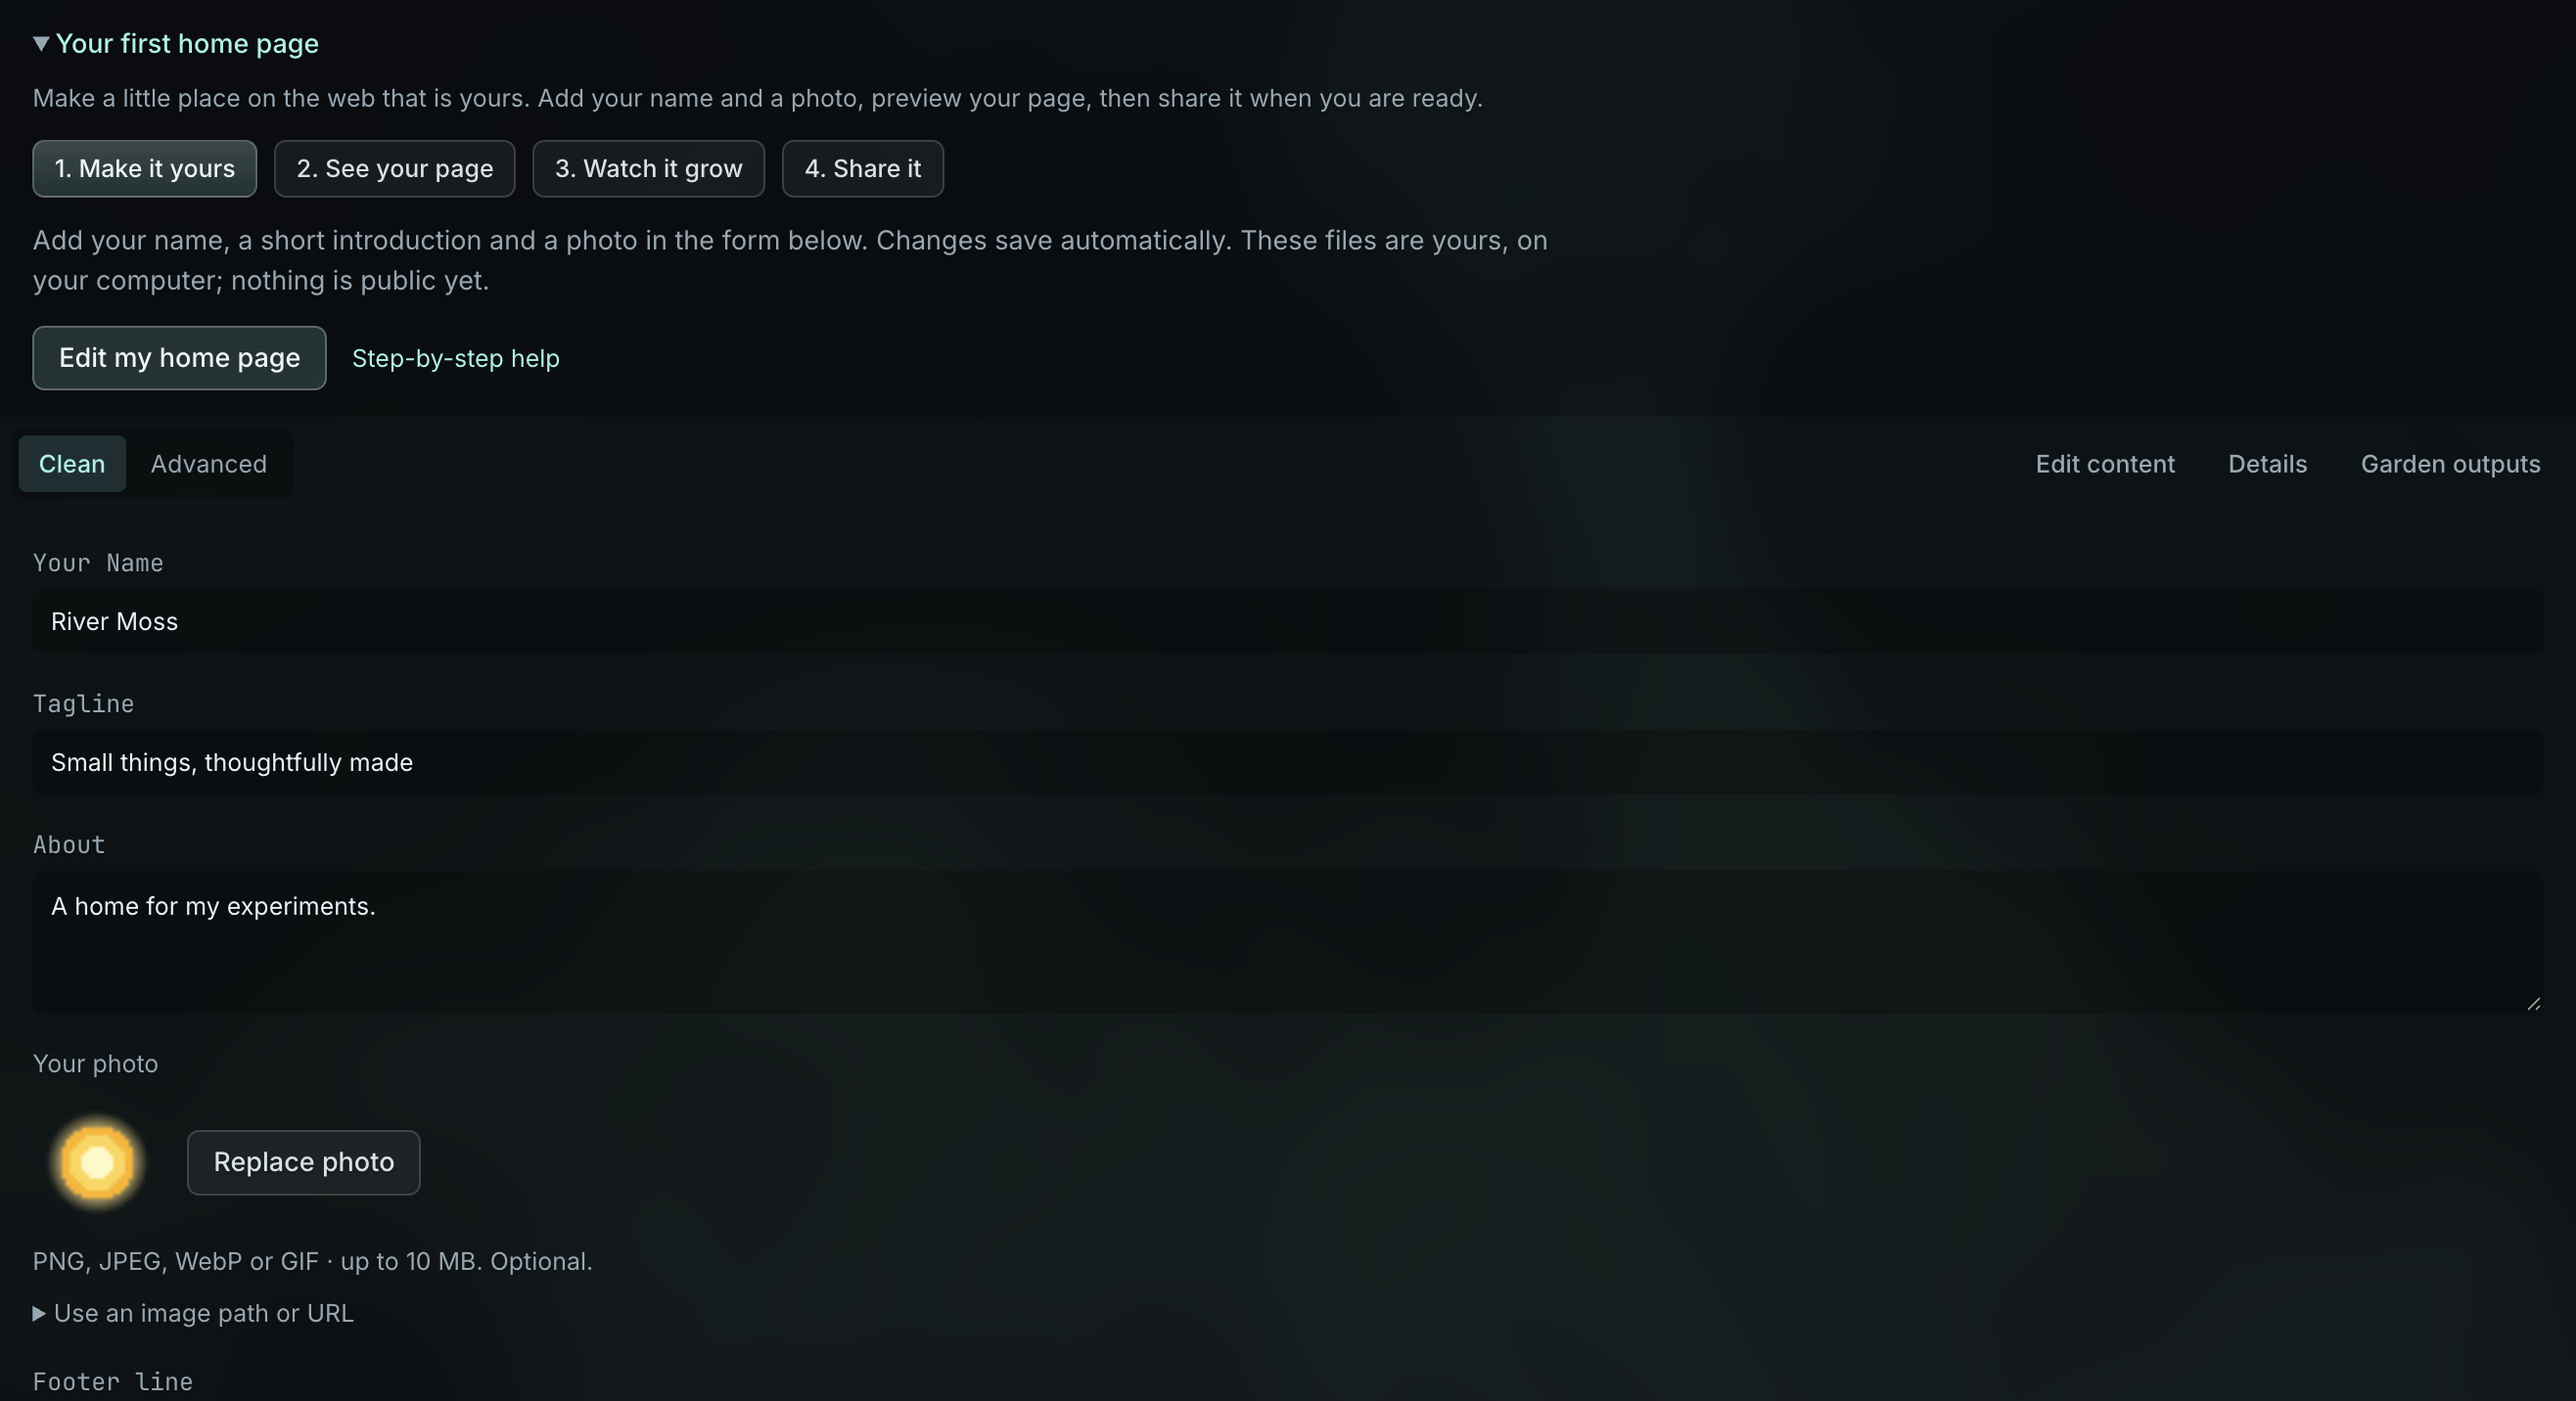
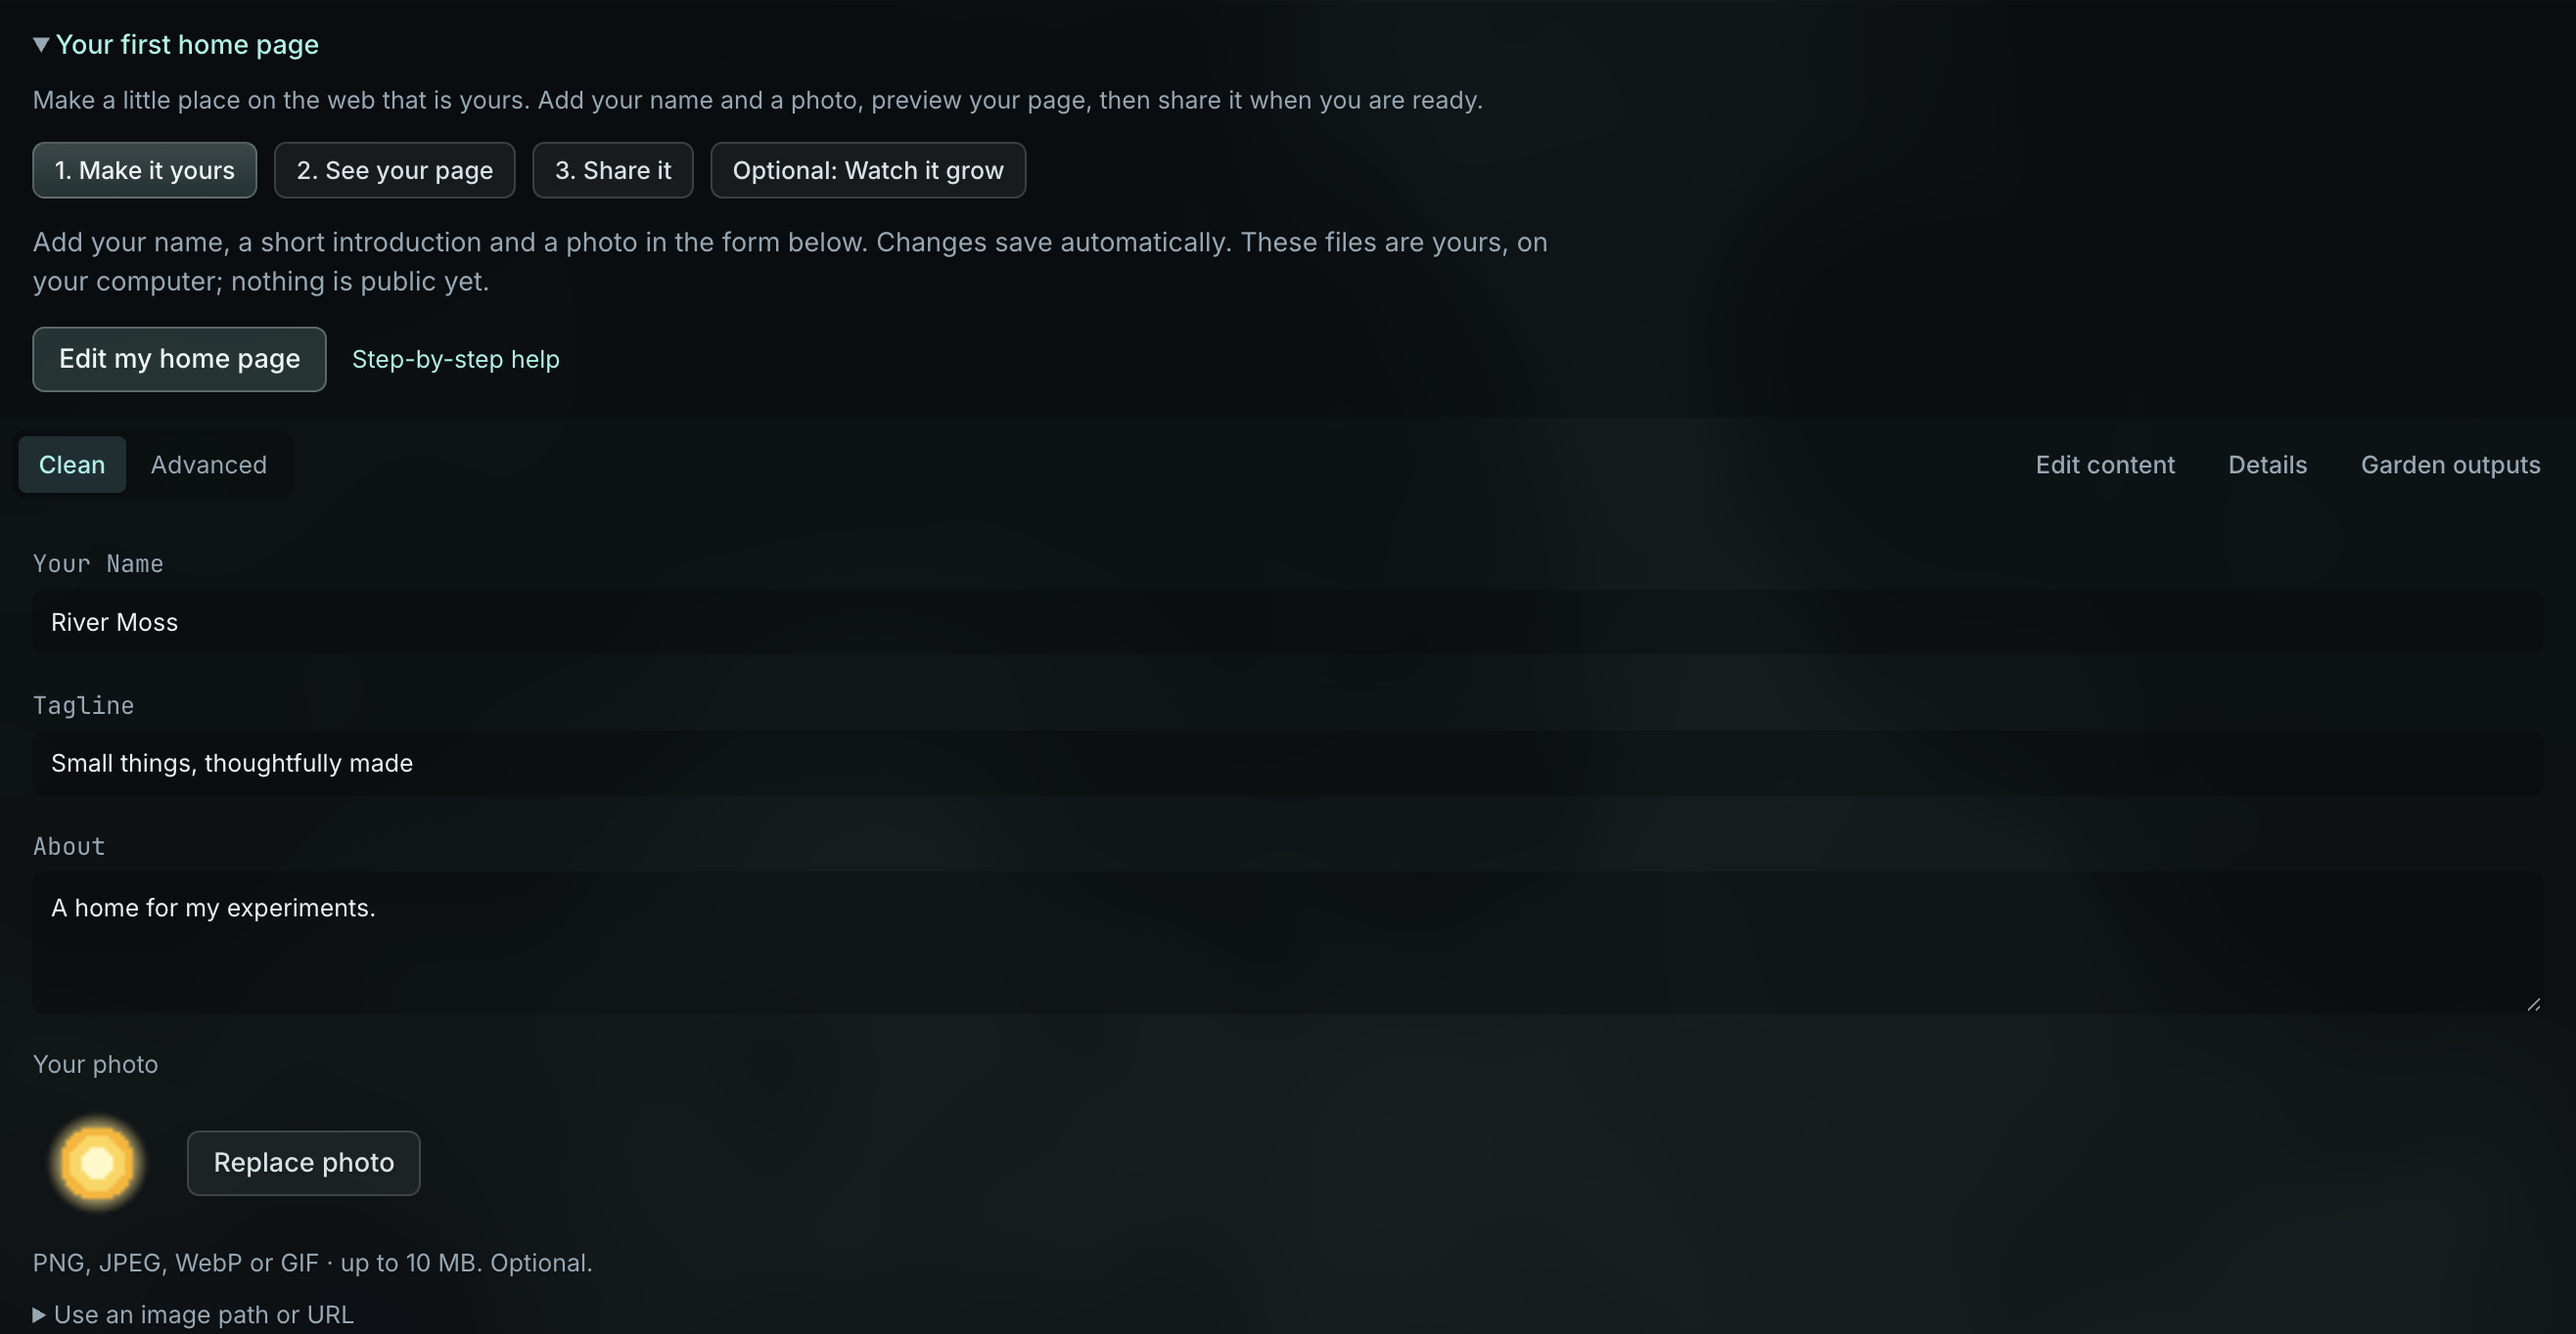
Explain local test save refusals and refresh first-home guidance

diff --git a/electron/e2e/local-staging.spec.ts b/electron/e2e/local-staging.spec.ts
@@ -103,6 +103,26 @@ test('a website can be tested locally without an account, restarted and publishe
     expect(await (await fetch(sites[0].url)).text()).toContain('First visitor page');
     writeFileSync(join(folder, 'index.html'), '<h1>Third visitor page</h1>');
     await expect.poll(() => fileText(page, id, 'index.html')).toContain('Third visitor page');
+    // One refused write through the actual host path must retain the previous test copy.
+    await running.app.evaluate(() => {
+      const fs = process.getBuiltinModule('fs');
+      const original = fs.writeFileSync;
+      fs.writeFileSync = ((filename, ...args) => {
+        if (
+          String(filename).includes('local-test-garden') &&
+          String(filename).endsWith('index.html')
+        ) {
+          fs.writeFileSync = original;
+          throw Object.assign(new Error('ENOSPC: no space left on device'), { code: 'ENOSPC' });
+        }
+        return original(filename, ...args);
+      }) as typeof fs.writeFileSync;
+    });
+    await share.getByRole('button', { name: 'Update local test copy' }).click();
+    await expect(share.getByRole('alert')).toContainText(
+      'Free up space on this computer, then retry.',
+    );
+    expect(await (await fetch(sites[0].url)).text()).toContain('First visitor page');
     await share.getByRole('button', { name: 'Update local test copy' }).click();
     await expect(share.getByRole('button', { name: 'Update local test copy' })).toBeEnabled();
     sites = await page.evaluate(() => window.electronAPI!.staging!.list());

diff --git a/src/components/workspace/LocalTestPublication.tsx b/src/components/workspace/LocalTestPublication.tsx
@@ -1,3 +1,4 @@
+import { plainError } from '@/lib/error-text';
 import { useEffect, useState } from 'react';
 import { useCruxStore, useCruxStoreApi } from '@/stores/cruxStore';
 import { useWorkspaceUIStoreApi } from '@/stores/uiStore';
@@ -61,10 +62,16 @@ export default function LocalTestPublication() {
     try {
       await operation();
     } catch (error) {
+      const message = plainError(
+        error,
+        'Local testing failed. Your project and live website are unchanged.',
+      );
       setError(
-        error instanceof Error
-          ? error.message
-          : 'Local testing failed. Your project and live website are unchanged.',
+        /ENOSPC|no space left|disk (?:is )?full/i.test(message)
+          ? 'Could not save the test copy. Free up space on this computer, then retry. Your project and live website are unchanged.'
+          : /EACCES|EPERM|permission denied/i.test(message)
+            ? 'Could not change the test copy. Check access to the app’s data folder, then retry. Your project and live website are unchanged.'
+            : message,
       );
     } finally {
       setBusy(false);

diff --git a/electron/e2e/garden-package-refusal.spec.ts b/electron/e2e/garden-package-refusal.spec.ts
@@ -89,9 +89,11 @@ test('selected-Garden import reports and exposes a retained partial copy through
     for (const title of ['First work', 'Second work']) {
       const id = await createCrux(page, title);
       await writeFirstFile(page, 'hello.txt', title);
-      await expect
-        .poll(() => storedFingerprint(page, id, 'hello.txt'))
-        .toBe(createHash('sha256').update(title).digest('hex'));
+      await expect(async () => {
+        expect(await storedFingerprint(page, id, 'hello.txt')).toBe(
+          createHash('sha256').update(title).digest('hex'),
+        );
+      }).toPass();
       originals.push({
         id,
         title,
